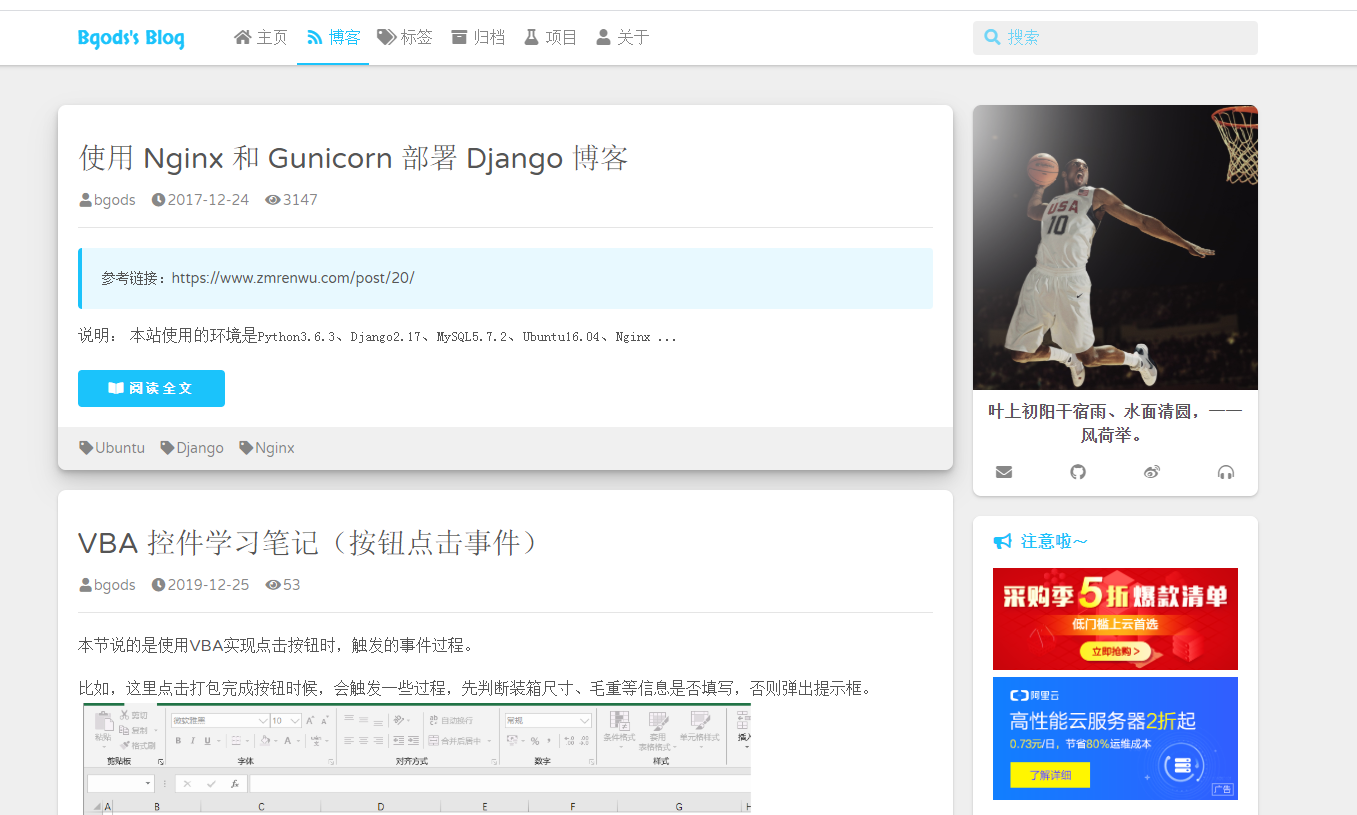
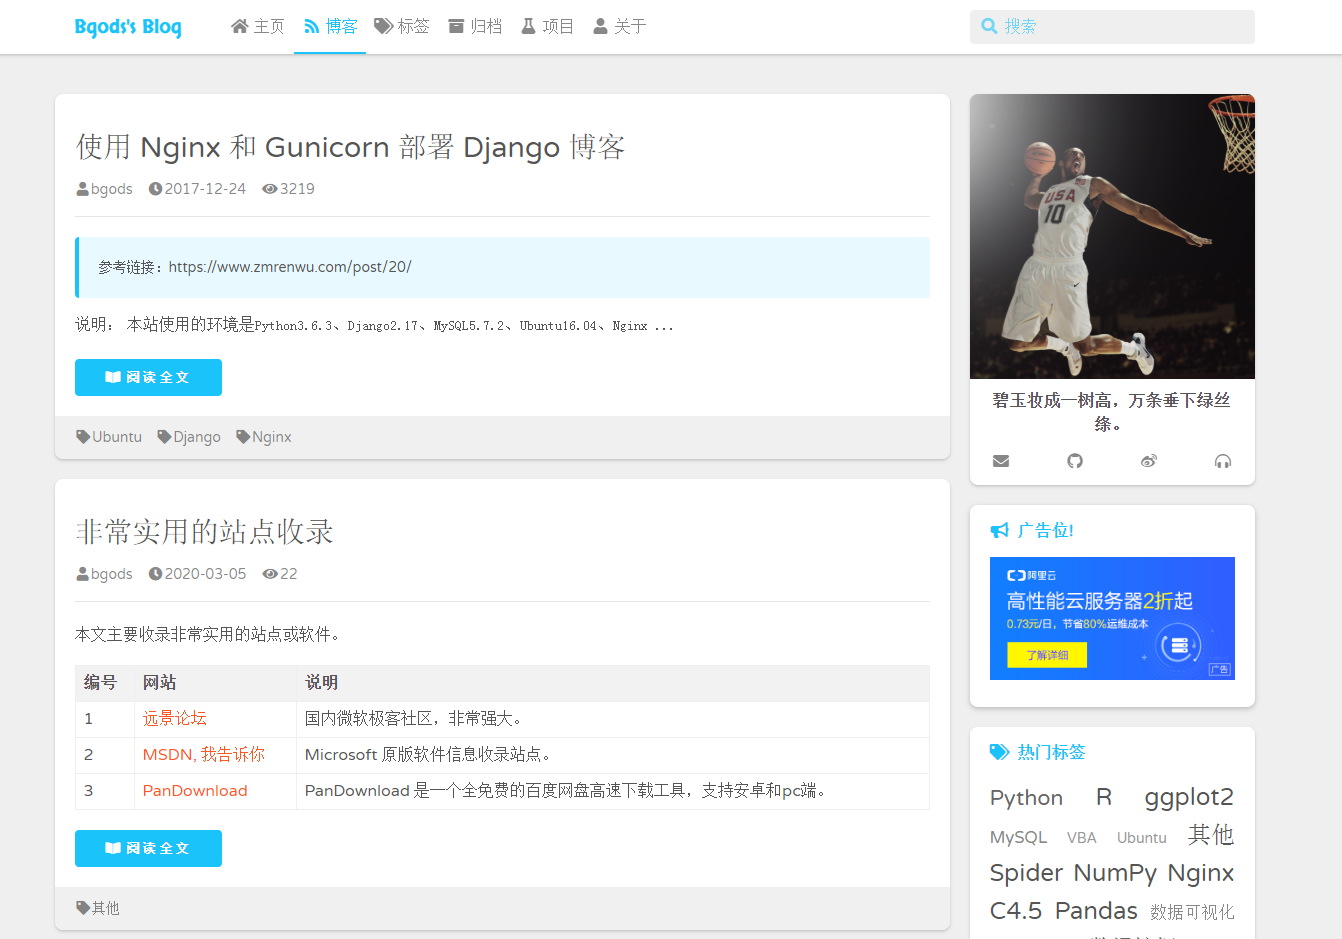
新增侧边栏广告

diff --git a/www/templates/blog/aside.html b/www/templates/blog/aside.html
@@ -42,12 +42,14 @@
     <!-- 侧边栏广告栏插件 -->
     <section class="plain">
         <header class="pure">
-            <div><i class="fas fa-bullhorn fa-fw" aria-hidden="true"></i>&nbsp;&nbsp;注意啦～</div>
+            <div><i class="fas fa-bullhorn fa-fw" aria-hidden="true"></i>&nbsp;&nbsp;广告位!</div>
         </header>
 
         <div class="content pure">
-            <a href="https://www.aliyun.com/acts/product-section-2019/new-users?userCode=lamq9ca3" target="_blank"><img width="100%" src="{% static 'images/guanggao/aliyun_001.png' %}"></a>
-            <a href="https://promotion.aliyun.com/ntms/act/qwbk.html?userCode=lamq9ca3" target="_blank"><img width="100%" src="{% static 'images/guanggao/aliyun_002.png' %}"></a>
+            {% get_advertising as advertising %}
+            {% for ad in advertising %}
+            <a title="{{ ad.ad_name }}" href="{{ ad.ad_url }}" target="_blank"><img width="100%" src="{{ ad.img_url }}"></a>
+            {% endfor %}
         </div>
 
     </section>

diff --git a/www/blog/templatetags/blog_tags.py b/www/blog/templatetags/blog_tags.py
@@ -1,6 +1,6 @@
 # -*- coding: utf-8 -*-
 
-from blog.models import Post, Tag, Links
+from blog.models import Post, Tag, Links, Advertising
 from django import template
 from django.db.models.aggregates import Count
 from www.settings import SITE_CONFIGS
@@ -38,10 +38,17 @@ def get_tags():
     tags = Tag.objects.filter(post__is_show=True).annotate(num_posts=Count('post')).filter(num_posts__gt=0).order_by('-num_posts')[:20]
     return {'tags_style':tags_style, 'tags':tags}
 
+
 # 获取友情链接
 @register.simple_tag
 def get_links():
     return Links.objects.filter(is_show=True)
+
+
+# 获取广告链接
+@register.simple_tag
+def get_advertising():
+    return Advertising.objects.filter(is_show=True)
 
 
 # 站点配置

diff --git a/www/blog/admin.py b/www/blog/admin.py
@@ -1,16 +1,23 @@
 from django.contrib import admin
-from blog.models import Post, Tag, Links
+from blog.models import Post, Tag, Links, Advertising
+
 
 # Register your models here.
 @admin.register(Tag)
 class TagAdmin(admin.ModelAdmin):
     list_display = ['name']
 
+
 @admin.register(Post)
 class PostAdmin(admin.ModelAdmin):
     list_display = ['title', 'created_time', 'modified_time', 'author', 'is_top', 'is_show', 'post_type']
+
 
 @admin.register(Links)
 class LinksAdmin(admin.ModelAdmin):
     list_display = ['name', 'url', 'is_show']
 
+
+@admin.register(Advertising)
+class AdvertisingAdmin(admin.ModelAdmin):
+    list_display = ['ad_name', 'ad_url', 'img_url', 'is_show']

diff --git a/www/blog/models.py b/www/blog/models.py
@@ -88,3 +88,15 @@ class Links(models.Model):
         verbose_name_plural = u'友情链接'
 
 
+# 广告链接
+class Advertising(models.Model):
+    ad_name = models.CharField(max_length=100, verbose_name=u'广告名称')
+    ad_url = models.URLField(max_length=225, verbose_name=u'广告链接')
+    img_url = models.URLField(max_length=225, verbose_name=u'展示图片URL')
+    is_show = models.BooleanField(default=True, verbose_name=u'是否推广')
+
+    def __str__(self):
+        return self.ad_name
+    class Meta:
+        verbose_name = u'广告链接'
+        verbose_name_plural = u'广告链接'

diff --git a/www/www/settings.py b/www/www/settings.py
@@ -122,7 +122,7 @@ USE_TZ = False
 
 STATIC_URL = '/static/'
 
-# STATIC_ROOT = os.path.join(BASE_DIR, "static") # 部署时用
+# STATIC_ROOT = os.path.join(BASE_DIR, "/static/") # 部署时用
 
 STATICFILES_DIRS = [
    os.path.join(BASE_DIR, "static"),

diff --git a/README.md b/README.md
@@ -9,7 +9,7 @@
 
 [![](doc/index.png)](doc/index.png)
 [![](doc/blog.png)](doc/blog.png)
-[![](doc/side.png)](doc/side.png)
+[![](doc/blog_admin.png)](doc/blog_admin.png)
 [![](doc/admin-post-add.png)](doc/admin-post-add.png)
 [![](doc/admin-post-view.png)](doc/admin-post-view.png)
 
